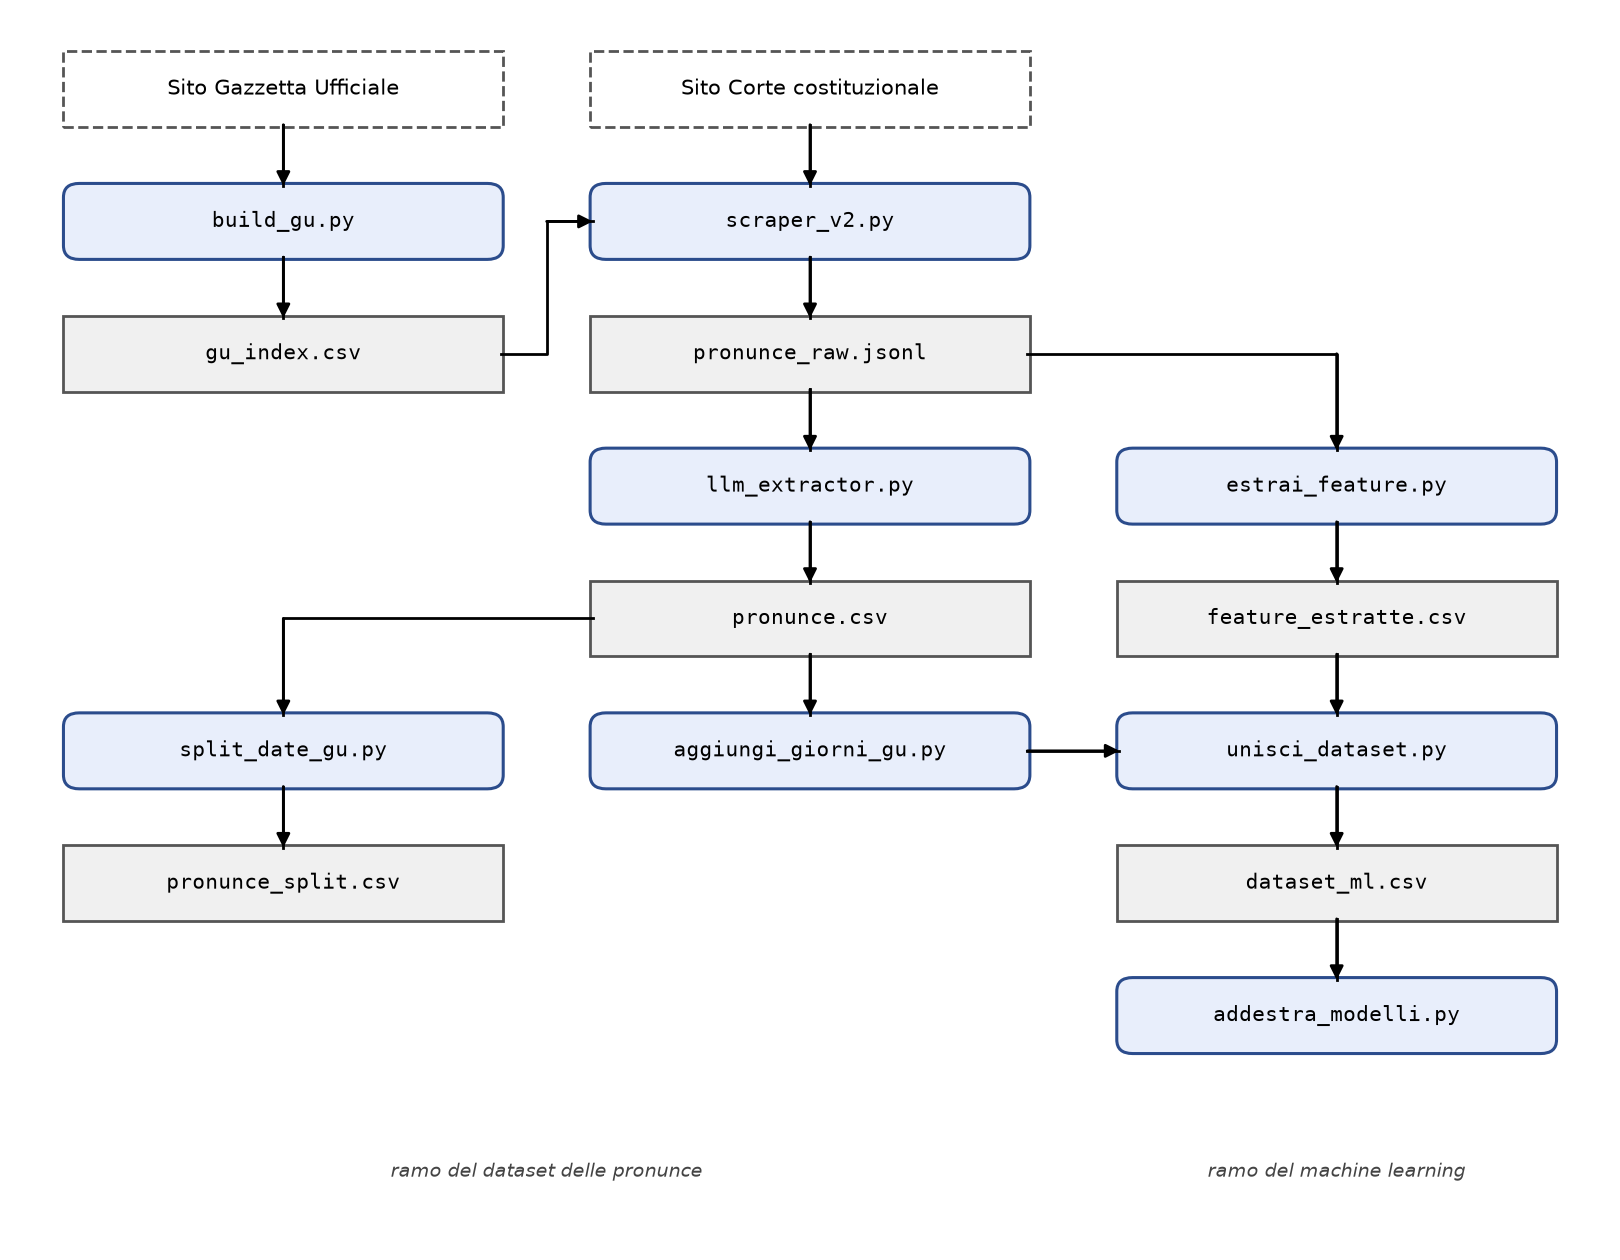
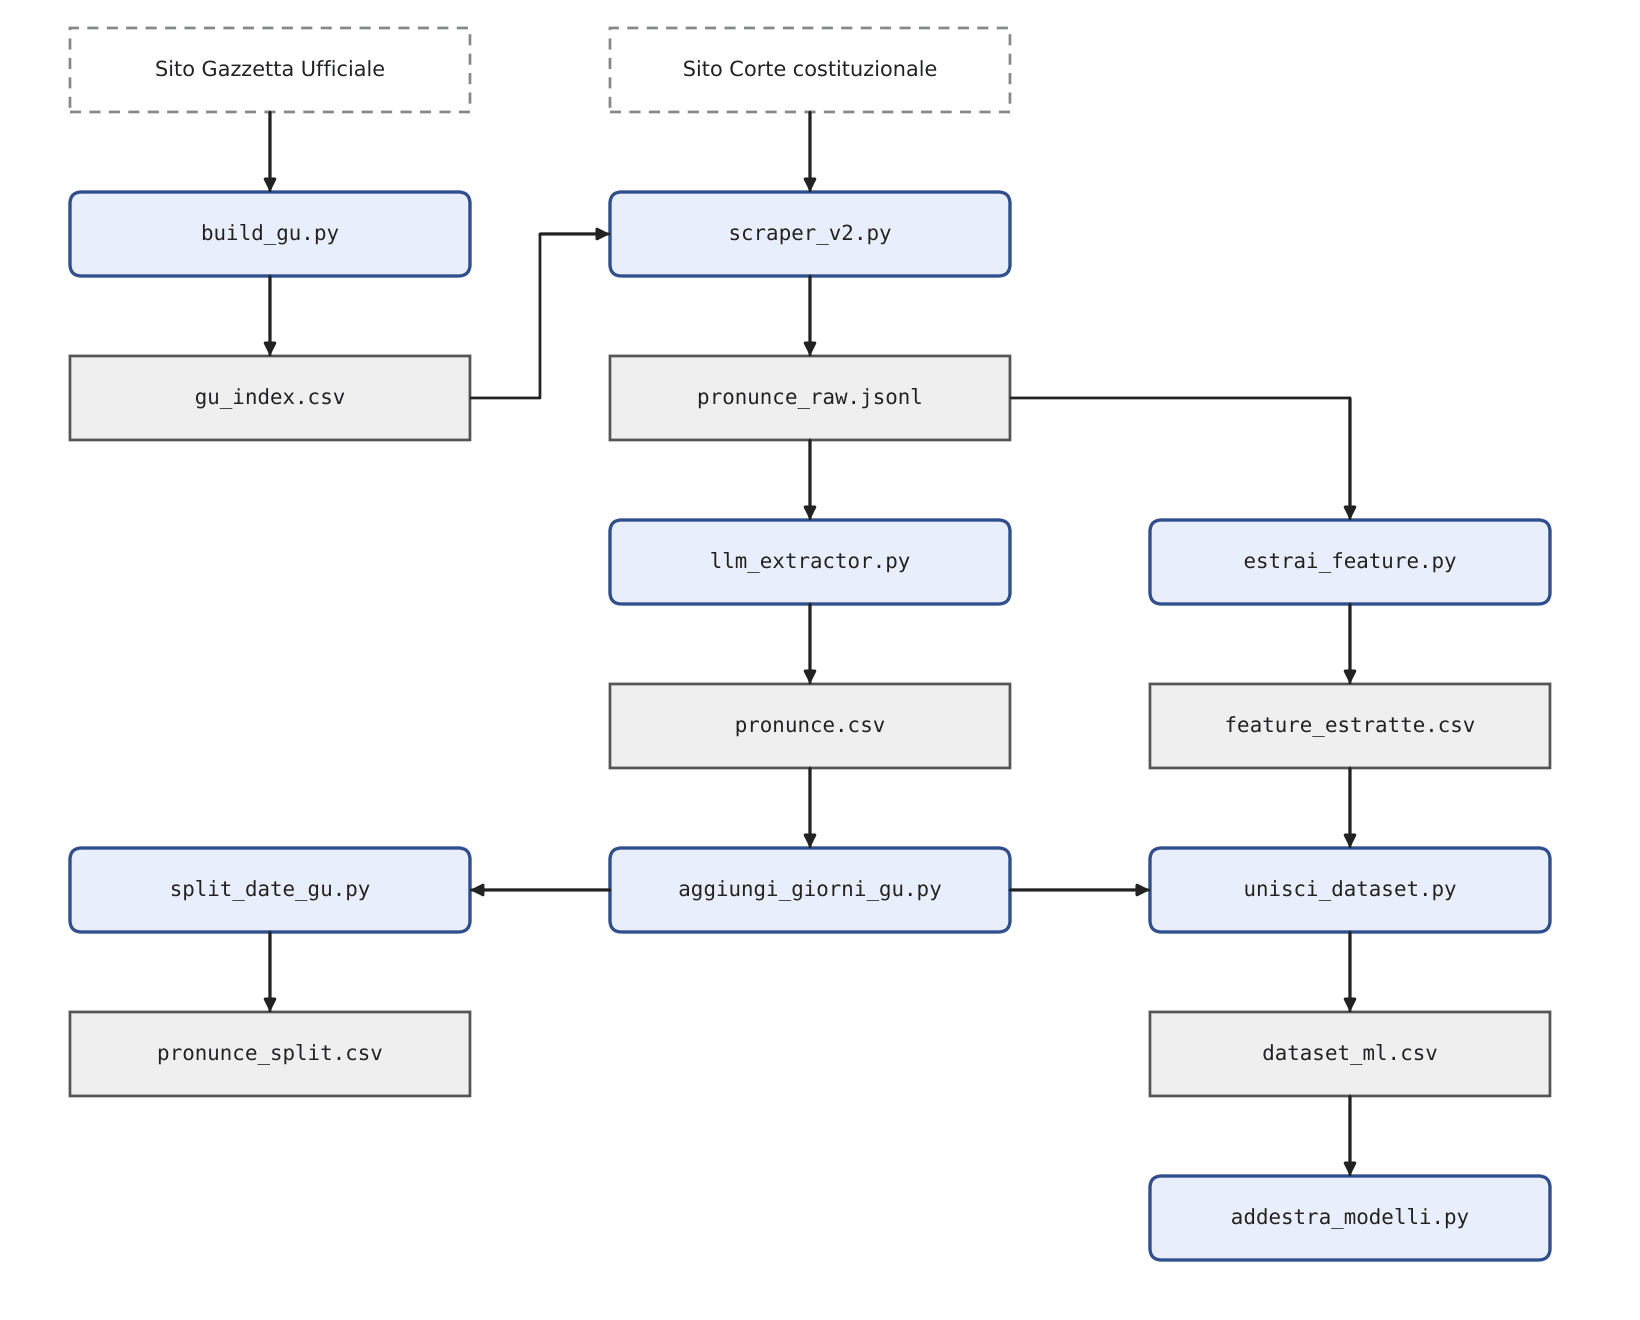
Aggiorna schema della pipeline e README (titolo tesi, corrispondenza sezioni)

diff --git a/README.md b/README.md
@@ -1,6 +1,9 @@
 # Pronunce della Corte costituzionale: dataset e modelli predittivi
 
-Sistema sviluppato durante il tirocinio e descritto nella tesi.
+Sistema sviluppato durante il tirocinio e descritto nella tesi di laurea di Gioele D'Ovidio,
+*Sistema automatizzato per l'acquisizione e l'analisi predittiva delle pronunce della
+Corte Costituzionale italiana* (Università degli Studi di Modena e Reggio Emilia,
+Corso di Laurea in Informatica, A.A. 2025/2026; relatore Prof. Angelo Ferrando).
 Raccoglie dal sito della Corte costituzionale le pronunce emesse nei **giudizi di
 legittimità costituzionale in via incidentale** (1956–2026) e produce:
 
@@ -403,12 +406,12 @@ feature (nessun modello batte la mediana).
 |---|---|
 | 3.1 Ambiente di sviluppo e scelte trasversali | `requirements.txt`, struttura della repository |
 | 3.2 Fondamenti di acquisizione automatica dal web | `build_gu.py`, `scraper_v2.py` |
-| 3.3 Indicizzazione della Gazzetta Ufficiale | `build_gu.py` → `gu_index.csv` |
-| 3.4 Lo scraper delle pronunce | `scraper_v2.py` → `pronunce_raw.jsonl` |
-| 3.5 Estrazione semantica con un LLM locale | `llm_extractor.py` → `pronunce.csv` |
+| 3.3 Indicizzazione della Gazzetta Ufficiale (build_gu.py) | `build_gu.py` → `gu_index.csv` |
+| 3.4 Lo scraper delle pronunce (scraper_v2.py) | `scraper_v2.py` → `pronunce_raw.jsonl` |
+| 3.5 Estrazione semantica con un LLM locale (llm_extractor.py) | `llm_extractor.py` → `pronunce.csv` |
 | 3.6 Preparazione del dataset delle pronunce | `aggiungi_giorni_gu.py`, `split_date_gu.py` |
-| 3.7 Estrazione delle feature a vocabolario chiuso | `estrai_feature.py` → `feature_estratte.*` |
-| 3.8 I modelli predittivi | `unisci_dataset.py`, `addestra_modelli.py`, `addestra_modelli_2.py`, `addestra_modelli_3.py` |
+| 3.7 Estrazione delle feature (estrai_feature.py) | `estrai_feature.py` → `feature_estratte.*` |
+| 3.8 I modelli predittivi (addestra_modelli.py) | `unisci_dataset.py`, `addestra_modelli.py`, `addestra_modelli_2.py`, `addestra_modelli_3.py` |
 | Capitolo 4 | `risultati/` |
 
 ---
